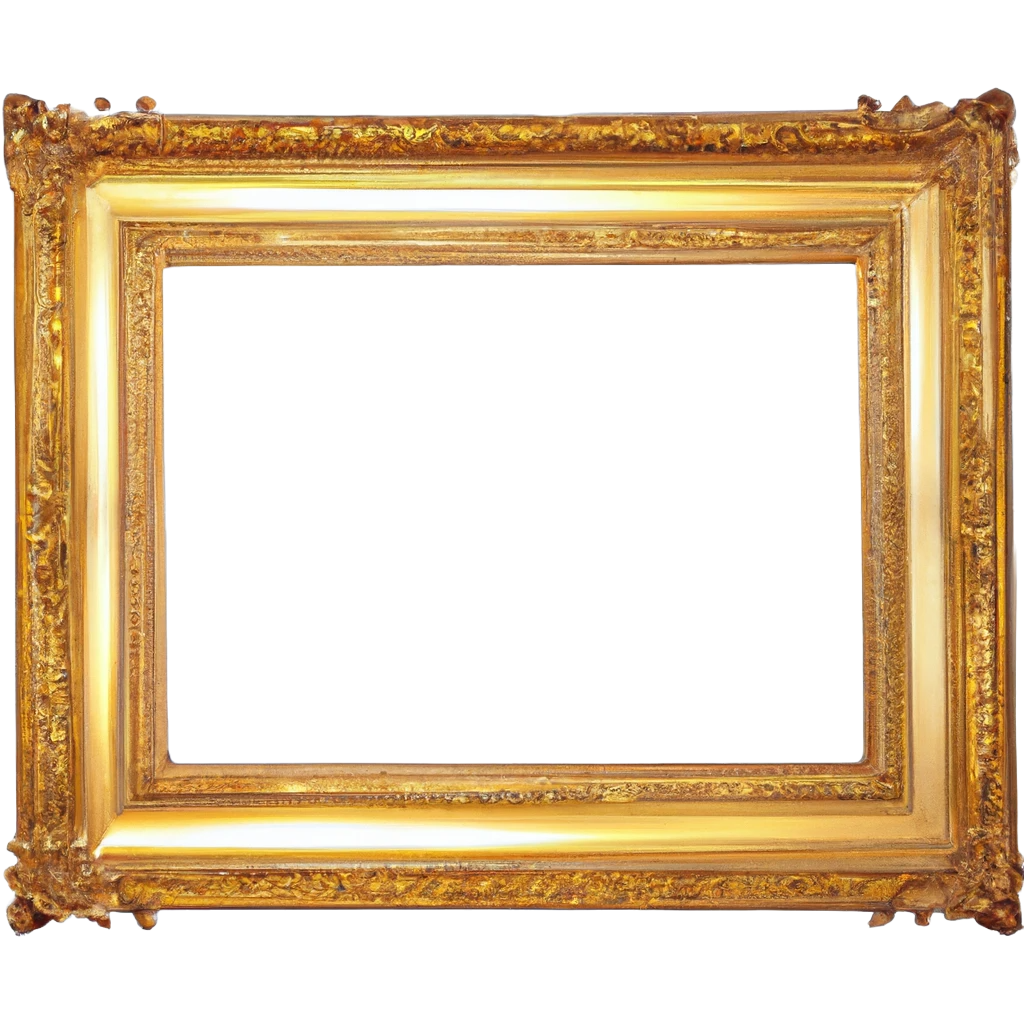
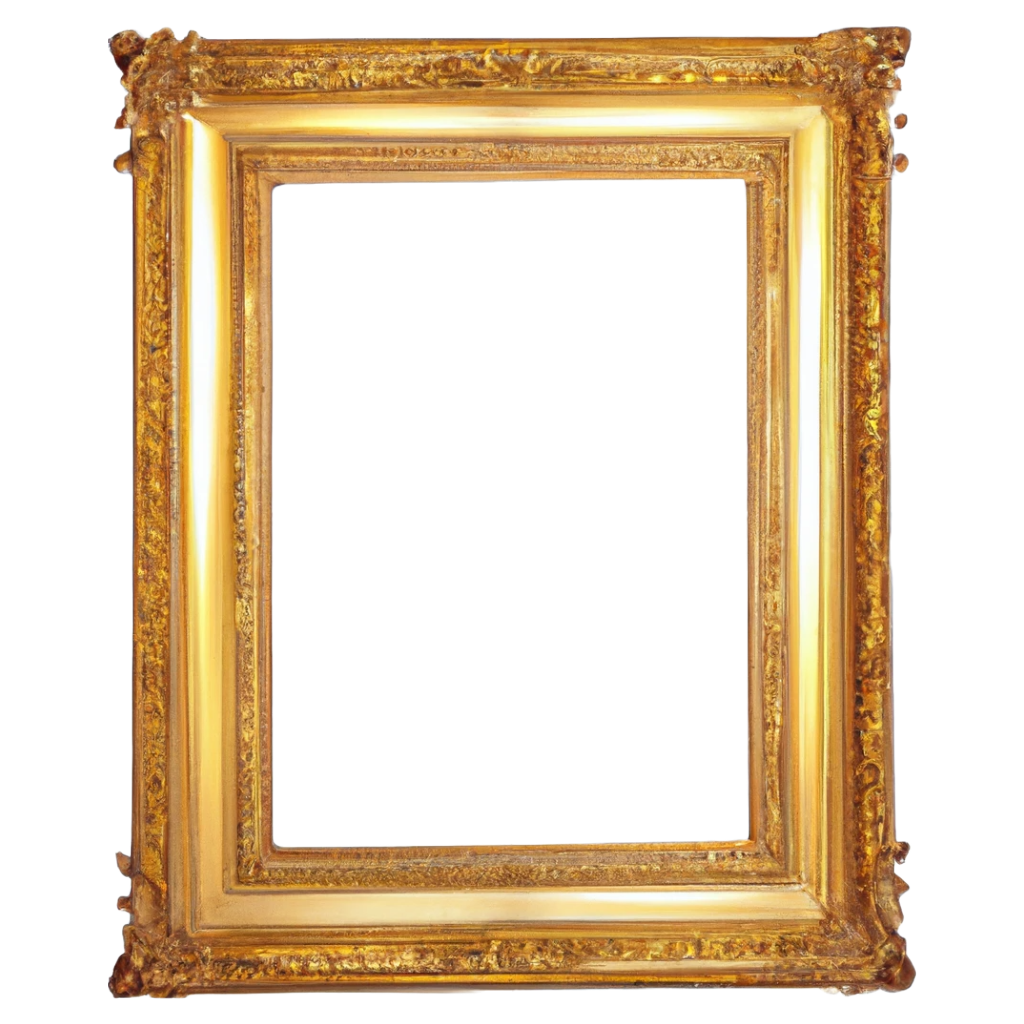
added about

diff --git a/src/components/About/About.tsx b/src/components/About/About.tsx
@@ -1,0 +1,26 @@
+import { Box, Flex, Group, Image, Text } from '@mantine/core'
+import { useStyles } from './About.styles'
+import { ImageWithFrame } from './partials/ImageWithFrame/ImageWithFrame'
+import { useTranslation } from 'react-i18next'
+import { useElementSize } from '@mantine/hooks'
+
+export function About() {
+  const { classes } = useStyles()
+
+  const { t } = useTranslation('translation', { keyPrefix: 'about' })
+
+  const { ref, height } = useElementSize()
+
+  return (
+    <Group grow ref={ref}>
+      <ImageWithFrame
+        height={height}
+        frameSrc="frame.png"
+        imageSrc="https://res.cloudinary.com/wewix/image/upload/v1688924153/JPEG_image-35CE9FE57F8B-1_vakwli.jpg"
+      />
+      <Text fz="xl" fw={500} sx={{ whiteSpace: 'break-spaces' }} py={100}>
+        {t('text')}
+      </Text>
+    </Group>
+  )
+}

diff --git a/src/components/About/partials/ImageWithFrame/ImageWithFrame.tsx b/src/components/About/partials/ImageWithFrame/ImageWithFrame.tsx
@@ -1,0 +1,24 @@
+import { Box } from '@mantine/core'
+import { useStyles } from './ImageWithFrame.styles'
+import { useElementSize } from '@mantine/hooks'
+
+type Props = {
+  frameSrc: string
+  imageSrc: string
+  height: number
+}
+
+export function ImageWithFrame(props: Props) {
+  const { frameSrc, imageSrc, height } = props
+
+  const { classes } = useStyles()
+
+  return (
+    <Box className={classes.frameContainer} h={height}>
+      <Box className={classes.imageContainer}>
+        <img className={classes.image} src={imageSrc} />
+      </Box>
+      <img className={classes.frame} src={frameSrc} />
+    </Box>
+  )
+}

diff --git a/src/components/About/partials/ImageWithFrame/ImageWithFrame.styles.ts b/src/components/About/partials/ImageWithFrame/ImageWithFrame.styles.ts
@@ -1,0 +1,28 @@
+import { createStyles } from '@mantine/core'
+
+export const useStyles = createStyles((theme) => {
+  return {
+    frameContainer: {
+      position: 'relative',
+      width: '100%',
+    },
+    imageContainer: {
+      position: 'absolute',
+      width: '50%',
+      height: '80%',
+      top: '10%',
+      left: '25%',
+    },
+    image: {
+      position: 'absolute',
+      width: '100%',
+      height: '100%',
+      objectFit: 'cover',
+    },
+    frame: {
+      position: 'absolute',
+      width: '100%',
+      height: '100%',
+    },
+  }
+})

diff --git a/src/App.tsx b/src/App.tsx
@@ -4,6 +4,7 @@ import { useTranslation } from 'react-i18next'
 import { Hero } from './components/Hero/Hero'
 import stylisRTLPlugin from 'stylis-plugin-rtl'
 import { MyWorks } from './components/MyWorks/MyWorks'
+import { About } from './components/About/About'
 
 const rtlCache = createEmotionCache({
   key: 'mantine-rtl',
@@ -22,6 +23,7 @@ export default function App() {
       <div dir="rtl">
         <Hero />
         <MyWorks />
+        <About />
       </div>
     </MantineProvider>
   )

diff --git a/src/components/MyWorks/MyWorks.tsx b/src/components/MyWorks/MyWorks.tsx
@@ -15,7 +15,7 @@ export function MyWorks() {
   if (!values) return null
 
   return (
-    <Box style={{ height: '1000px' }}>
+    <Box>
       <Title order={2}>{t('title')}</Title>
       {/* button */}
       <Marquee

diff --git a/src/components/About/About.styles.ts b/src/components/About/About.styles.ts
@@ -1,0 +1,5 @@
+import { createStyles } from '@mantine/core'
+
+export const useStyles = createStyles((theme) => {
+  return {}
+})

diff --git a/src/components/Contact/Contact.styles.ts b/src/components/Contact/Contact.styles.ts
@@ -1,0 +1,5 @@
+import { createStyles } from '@mantine/core'
+
+export const useStyles = createStyles((theme) => {
+  return {}
+})
